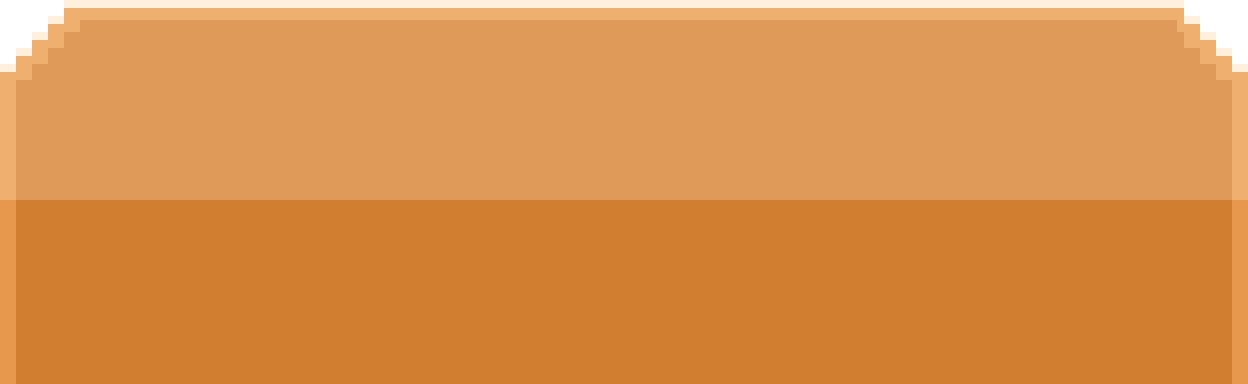
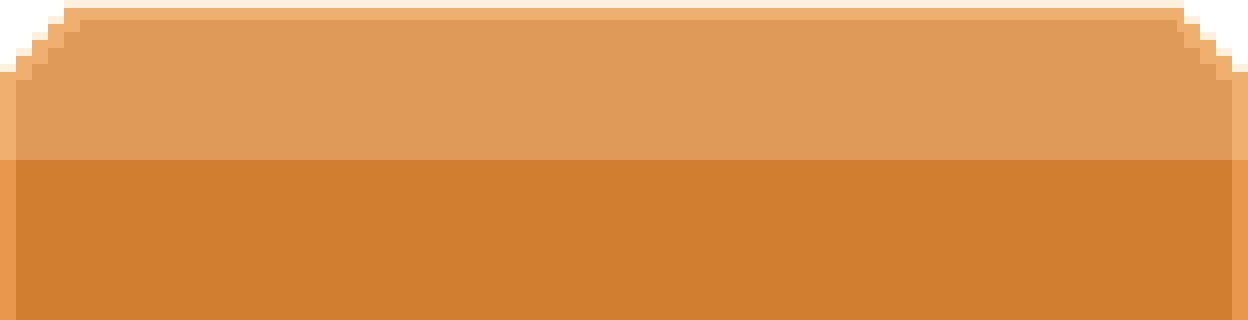
하단 조정

diff --git a/style/style.css b/style/style.css
@@ -409,9 +409,9 @@ html, body small{font-size: 70%;}
     width: 100%;
     
     /* 비율 유지 */
-    aspect-ratio: 78 / 24; 
+    aspect-ratio: 78 / 20; 
     
-    background: url('../assets/images/control_frame.png') no-repeat center/contain;
+    background: url('../assets/images/control_frame.png') no-repeat top/contain;
     z-index: 100;
     
     display: flex;
@@ -442,6 +442,8 @@ html, body small{font-size: 70%;}
     width: 43.59%; 
     aspect-ratio: 34 / 17;
     
+    position: relative;
+    top: -0.25rem;
     background-color: transparent;
     border: none;
     background-size: contain;
@@ -593,7 +595,7 @@ html, body small{font-size: 70%;}
    - 이렇게 하면 스크롤바가 잘리지 않고 전체가 위로 올라갑니다.
 */
 #scene-game:not(.controls-hidden) #list-container {
-    margin-bottom: 28%;
+    margin-bottom: 26%;
 }
 .score-list li {
     display: flex;
